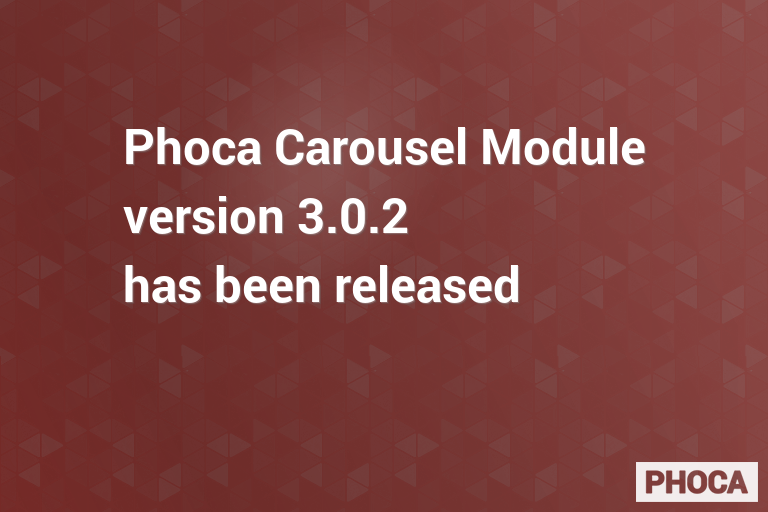
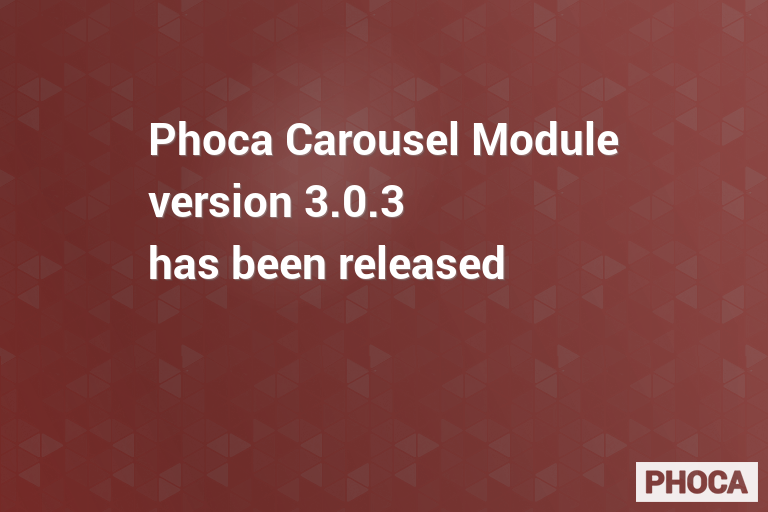
3.0.3
3.0.3

Changed region(s): [[0.1562, 0.2188, 0.8438, 0.5938]]

diff --git a/media/css/animate.css b/media/css/animate.css
@@ -3492,3 +3492,20 @@
   -webkit-animation-name: slideOutUp;
   animation-name: slideOutUp;
 }
+
+@keyframes kenburnsBottomLeft {
+  0% {
+    transform: scale(1) translate(0, 0);
+    transform-origin: 16% 84%;
+  }
+  100% {
+    transform: scale(1.25) translate(-20px, 15px);
+    transform-origin: left bottom;
+  }
+}
+
+.kenburnsBottomLeft {
+ /* -webkit-animation-name: kenburnsBottomLeft;
+  animation-name: kenburnsBottomLeft;*/
+  animation: kenburnsBottomLeft 8s ease-out both
+}							   

diff --git a/mod_phocacarousel.php b/mod_phocacarousel.php
@@ -25,23 +25,29 @@ $p['background_image'] 		= $params->get( 'background_image', '');
 $p['background_video'] 		= $params->get( 'background_video', '');
 $p['display_view'] 			= $params->get( 'display_view', '');
 $p['display_option'] 		= $params->get( 'display_option', '');
+$p['display_id'] 			= $params->get( 'display_id', '');
 $p['display_min_width'] 	= $params->get( 'display_min_width', 0);
 $view 						= $app->input->get('view', '');
 $option 					= $app->input->get('option', '');
+$idCom						= $app->input->get('id', '');
 
 $optionA 	= array_map('trim', explode(',', $p['display_option']));// Remove spaces
 $viewA 		= array_map('trim', explode(',', $p['display_view']));
+$idA 		= array_map('trim', explode(',', $p['display_id']));
 $optionA	= array_filter($optionA);// Remove empty values from array
 $viewA 		= array_filter($viewA);
+$idA 		= array_filter($idA);
 
 
 
-if (empty($optionA) && empty($viewA)) {
-	// OK - both parameters are not set
-} else if (!empty($optionA) && in_array($option, $optionA) && empty($viewA)) {
+if (empty($optionA) && empty($viewA) && empty($idA)) {
+	// OK - all parameters are not set
+} else if (!empty($optionA) && in_array($option, $optionA) && empty($viewA) && empty($idA)) {
 	// OK - only option is set and it meets the criteria
-} else if (!empty($optionA) && in_array($option, $optionA) && !empty($viewA) && in_array($view, $viewA) ) {
+} else if (!empty($optionA) && in_array($option, $optionA) && !empty($viewA) && in_array($view, $viewA) && empty($idA)) {
 	// OK - option and view is set and it meets the criteria
+} else if (!empty($optionA) && in_array($option, $optionA) && !empty($viewA) && in_array($view, $viewA) && !empty($idA) && in_array($idCom, $idA) ) {
+	// OK - option and view and ID is set and it meets the criteria
 } else {
 	return '';
 }
@@ -76,8 +82,8 @@ if (!empty($items)) {
             //$s[] = '    overflow: hidden;';
             //$s[] = '}';
 
-            //$s[] = '#'.$id.' .ph-swiper-slide-box-bg-'.$i.' {';
-			$s[] = '#'.$id.' .ph-swiper-slide-box-'.$i.' {';
+            //$s[] = '#'.$id.' .ph-swiper-slide-box-'.$i.' {';
+			$s[] = '#'.$id.' .ph-swiper-slide-box-bg-'.$i.' {';
             $s[] = '    background-image:url('.$path['image'].$v->item_background_image.');';
             $s[] = '    -webkit-background-size: cover;';
             $s[] = '    background-size: cover;';
@@ -156,6 +162,9 @@ if (!empty($items)) {
 	$s[] = '    right: 0;';
 	$s[] = '    left: 0;';
 	$s[] = '    overflow: hidden;';
+	if ($p['fill_rest_page'] == 0) {
+        $s[] = '    height: '.$p['height'].';';
+    }
 	$s[] = '}';
 	
 
@@ -195,7 +204,7 @@ $js[] = '       n.hide();';
 $js[] = '   }';
 
 $js[] = '   function phStartAnimationBackground(item, aClass) {';
-$js[] = '   	var a = jQuery(".swiper-slide-active "+item);';
+$js[] = '   	var a = jQuery(".swiper-slide-active " + item);';
 $js[] = '   	a.removeClass(aClass);';
 $js[] = '   	a = phReset(a);';
 $js[] = '   	a.addClass(aClass);';

diff --git a/README.MD b/README.MD
@@ -24,6 +24,8 @@ Phoca Carousel Module - a Joomla! CMS module which displays horizontal image sli
 
 
 
+
+
 ## Support
 
 [Phoca Forum](https://www.phoca.cz/forum)
@@ -52,7 +54,7 @@ Phoca Carousel Module - a Joomla! CMS module which displays horizontal image sli
 
 ## Version
 
-3.0.2
+3.0.3
 
 
 
